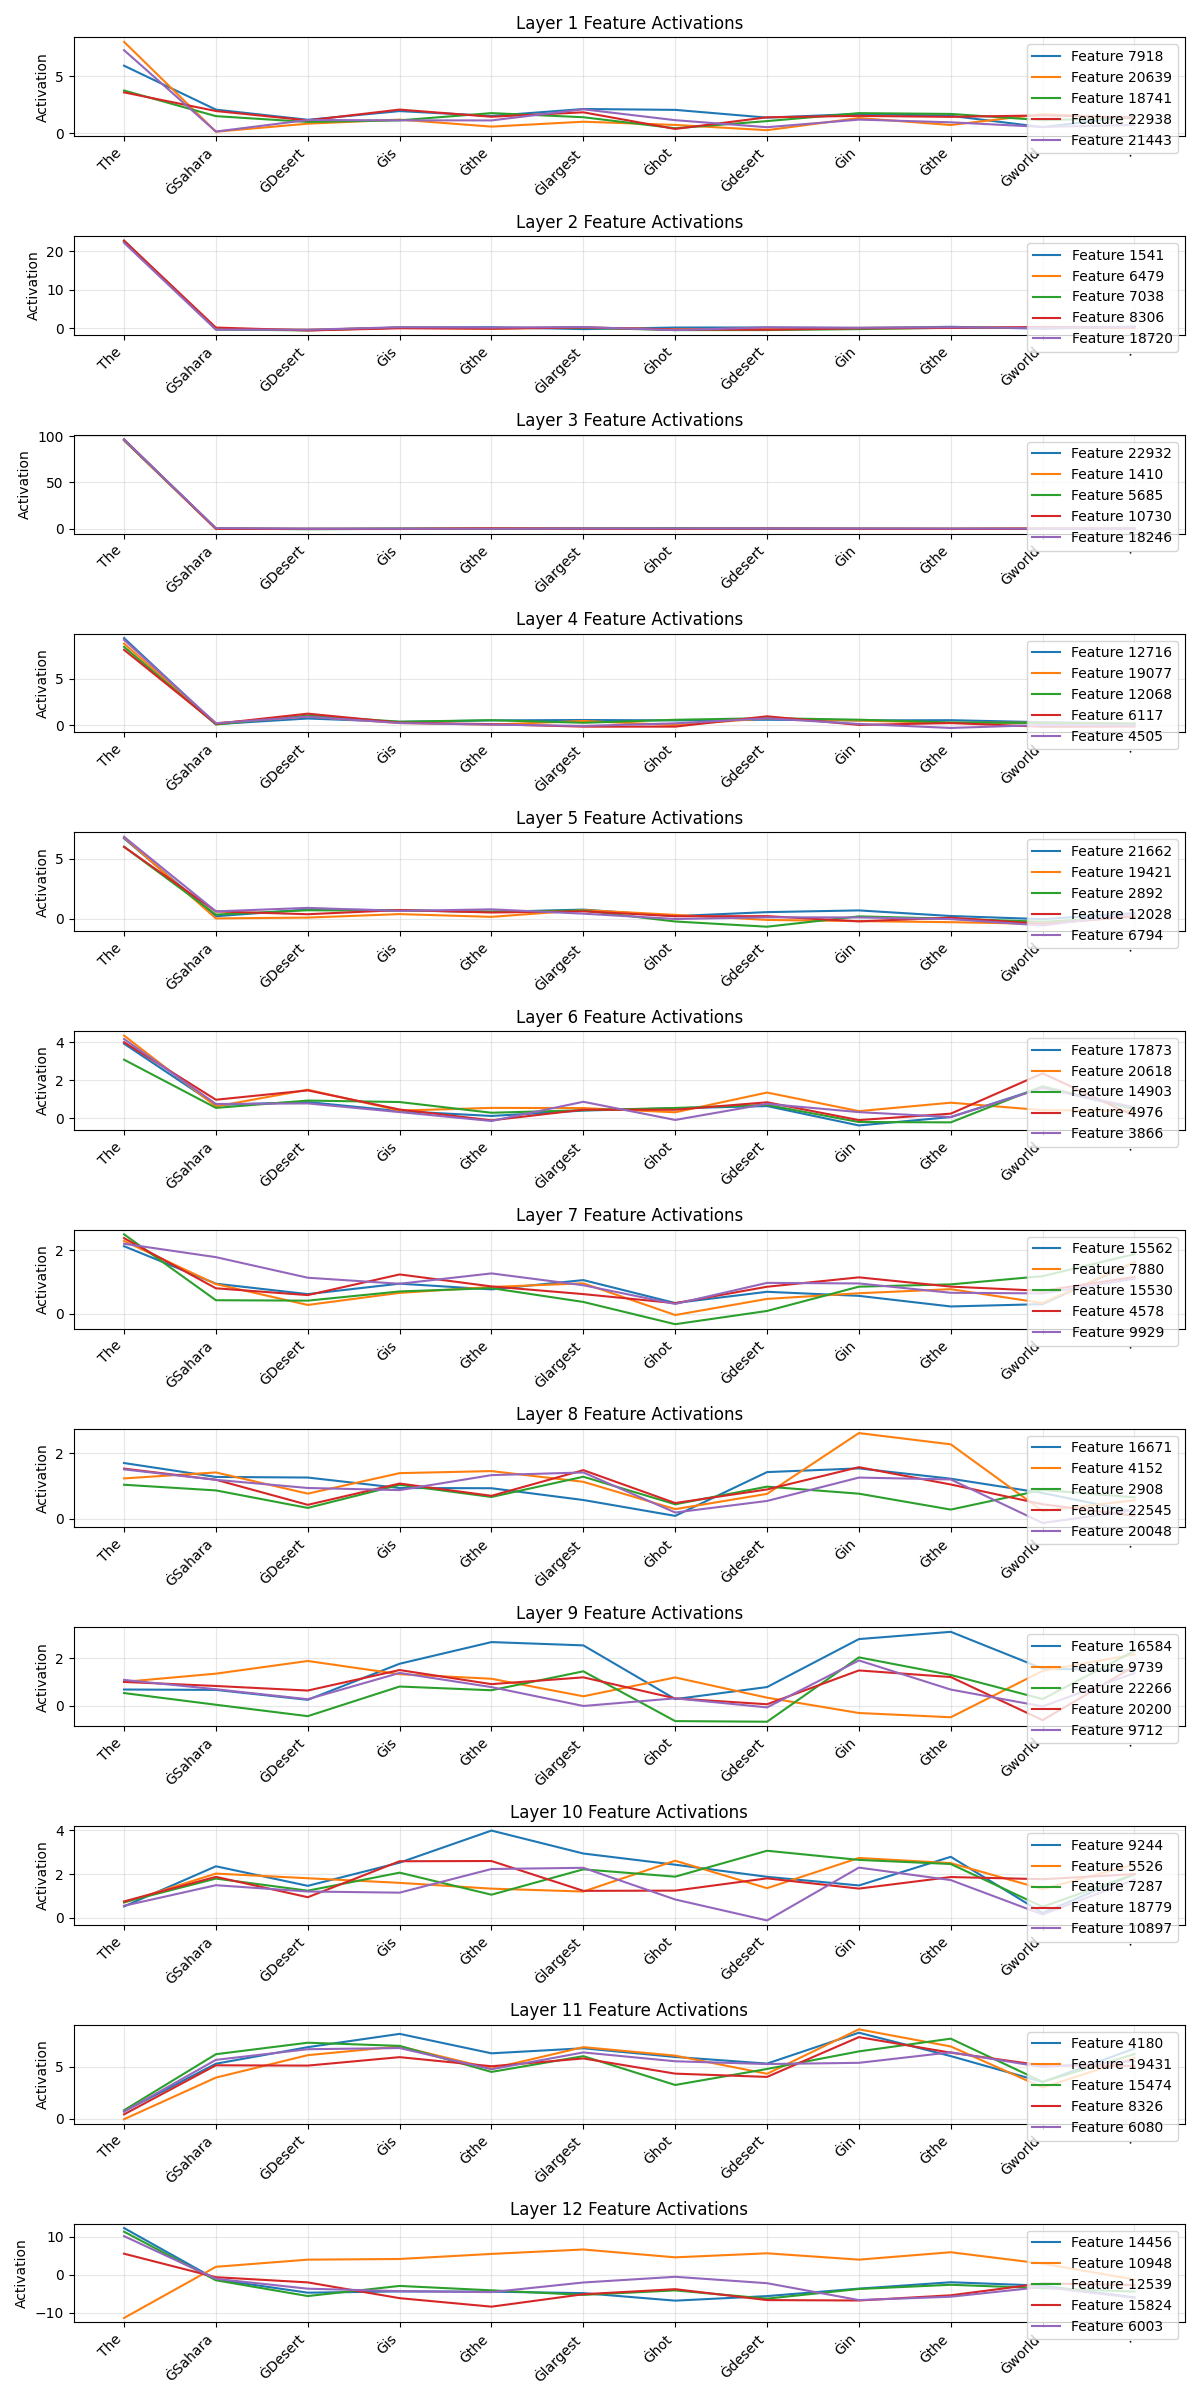
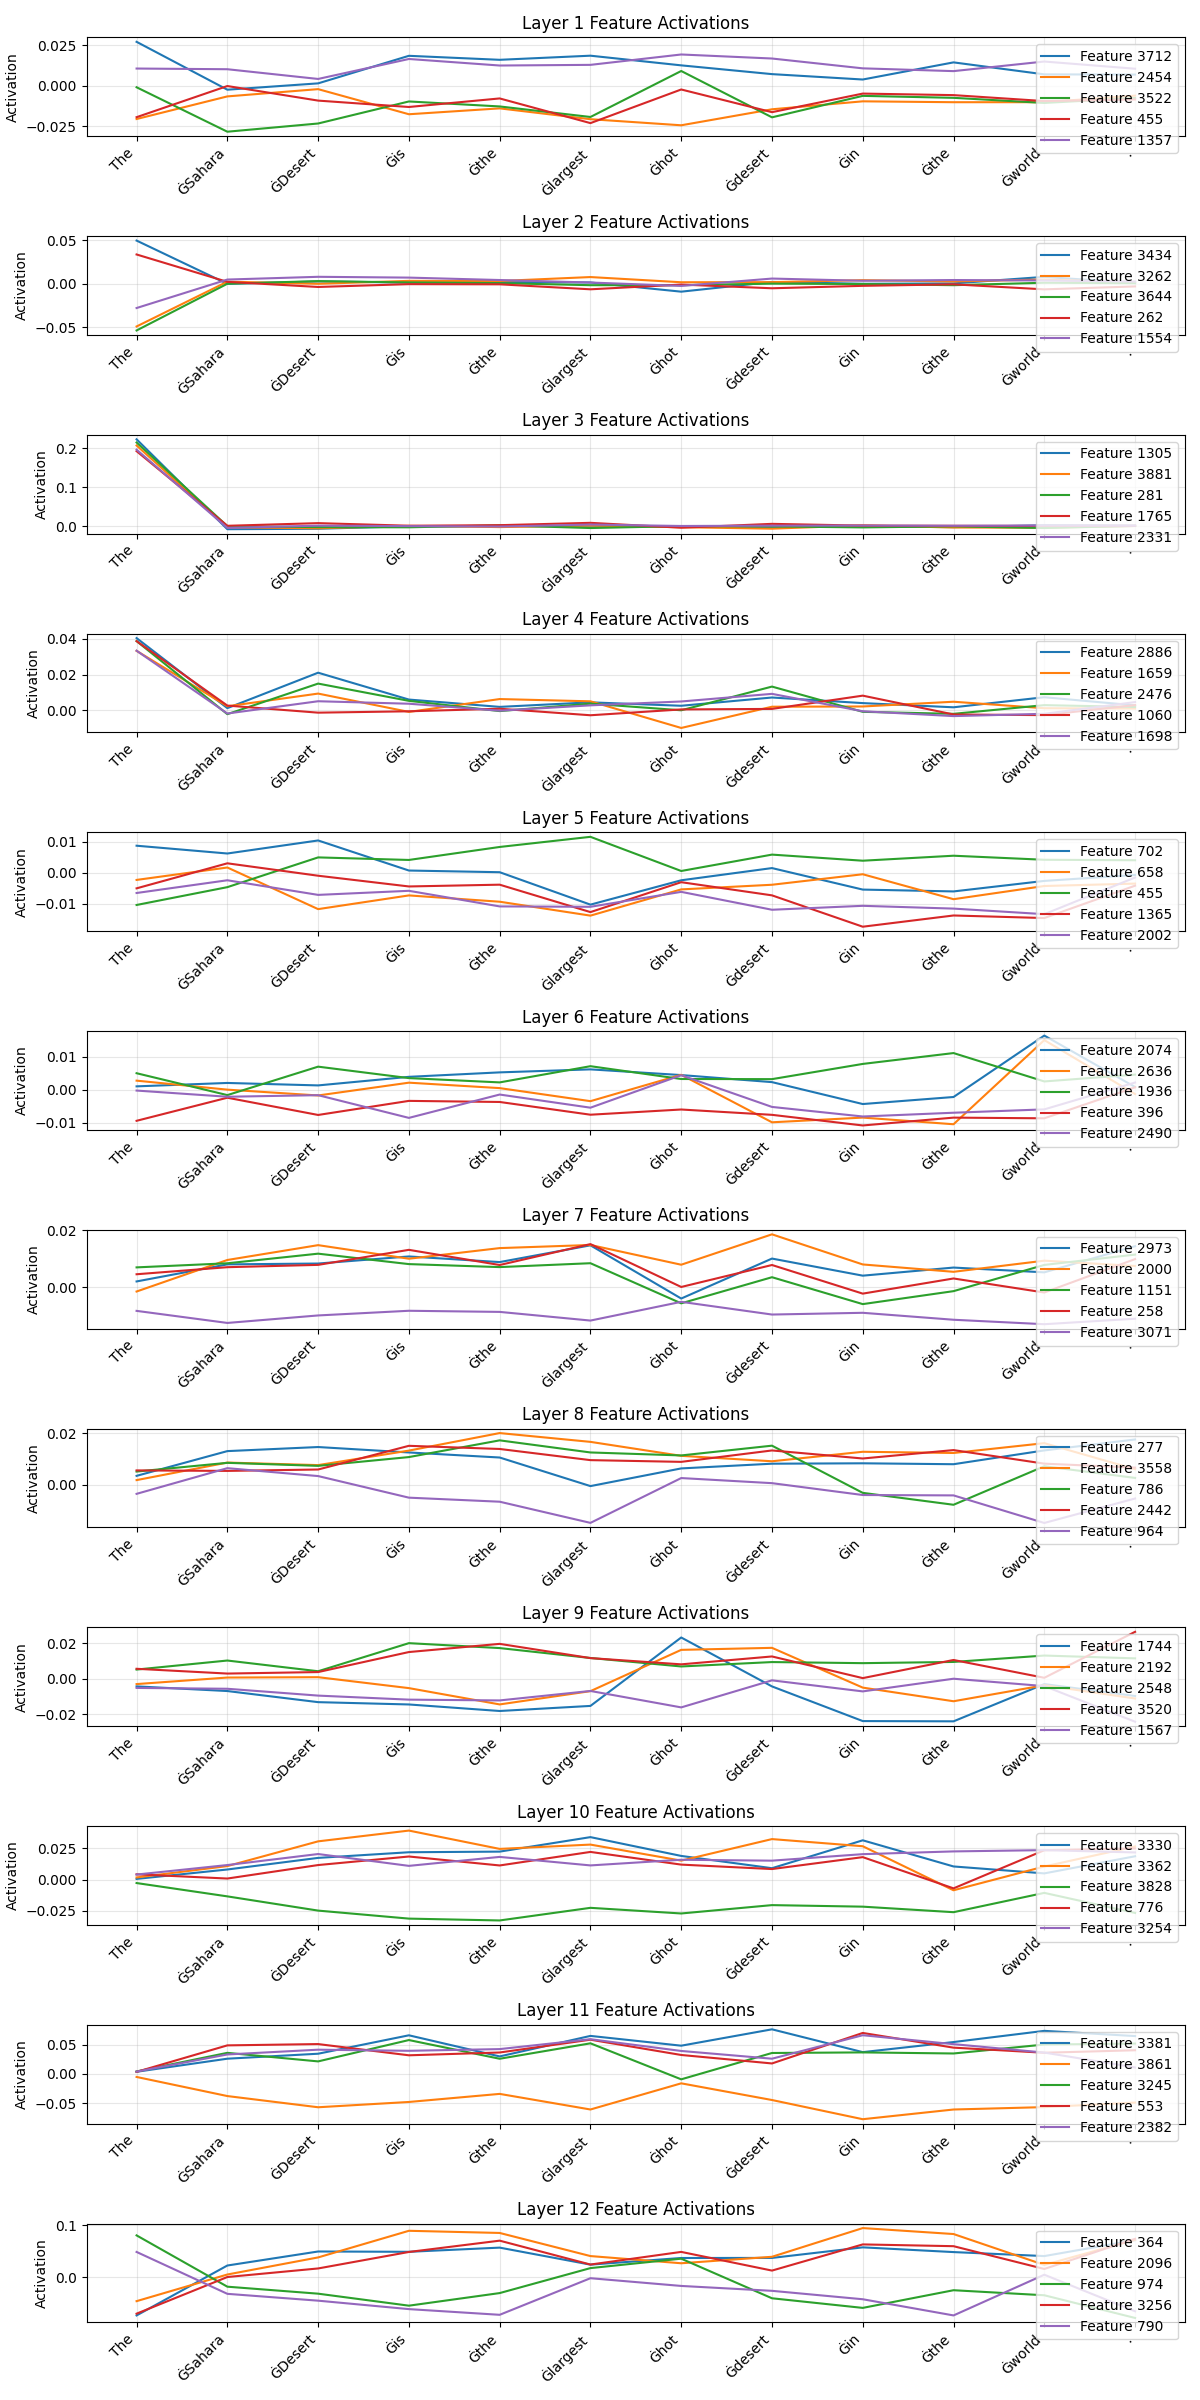
Param and debugging in training

diff --git a/open_cross_layer_transcoder.py b/open_cross_layer_transcoder.py
@@ -19,6 +19,7 @@ from tqdm import tqdm
 from sklearn.decomposition import PCA
 from typing import List, Dict, Tuple, Optional, Union
 
+DEBUG = True
 
 class OpenCrossLayerTranscoder(nn.Module):
     """
@@ -78,6 +79,18 @@ class OpenCrossLayerTranscoder(nn.Module):
         # Feature importance tracking
         self.feature_importance = torch.zeros(self.num_layers, num_features).to(device)
         
+    def print_activations(self, layer_idx, features_relu, num_features):
+        if features_relu.numel() > 0: # Check if tensor is not empty
+            print(f"\n--- Debug Sample: Layer {layer_idx} Feature Activations (features_relu) ---")
+            print(f"Shape of features_relu: {features_relu.shape} (Batch, SeqLen, NumFeatures)")
+            
+            # Print all feature activations for the first token of the first item in the batch
+            if features_relu.shape[0] > 0 and features_relu.shape[1] > 0:
+                print(f"Activations for B[0], T[0] (all {num_features} features):")
+                print(features_relu[0, 0, :])
+            
+            print(f"--- End Debug Sample ---")
+
     def _register_hooks(self):
         """Register forward hooks to capture MLP activations from each layer."""
         def hook_fn(layer_idx):
@@ -183,7 +196,8 @@ class OpenCrossLayerTranscoder(nn.Module):
         metrics = {
             'total_loss': [],
             'reconstruction_loss': [],
-            'sparsity_loss': []
+            'sparsity_loss': [],
+            'l0_metric': []
         }
         
         # Tokenize all texts
@@ -194,6 +208,7 @@ class OpenCrossLayerTranscoder(nn.Module):
             epoch_total_loss = 0
             epoch_recon_loss = 0
             epoch_sparsity_loss = 0
+            epoch_l0_metric = 0
             
             # Process in batches
             num_batches = (len(encoded_texts) + batch_size - 1) // batch_size
@@ -246,12 +261,19 @@ class OpenCrossLayerTranscoder(nn.Module):
                         # Decode back to MLP space
                         reconstructed = self.decoders[layer_idx](features_relu)
                         
+                        if DEBUG == True and batch_idx == 0 and epoch == 0: 
+                            self.print_activations(layer_idx, features_relu, self.num_features)
+
+                        # L0 metric (sparsity)
+                        # l0_metric = torch.count_nonzero(features_relu, dim=2).float()
+                        l0_metric = torch.sum((features_relu > 0.1).float(), dim=2)
+
                         # Reconstruction loss (MSE)
                         recon_loss = F.mse_loss(reconstructed, mlp_acts)
                         reconstruction_loss += recon_loss
                         
                         # Sparsity loss (L1 regularization on features)
-                        l1_loss = 0.1 * torch.mean(torch.abs(features))
+                        l1_loss = 1000 * torch.mean(torch.abs(features))
                         sparsity_loss += l1_loss
                         
                         # Add to total loss
@@ -265,20 +287,25 @@ class OpenCrossLayerTranscoder(nn.Module):
                 epoch_total_loss += total_loss.item()
                 epoch_recon_loss += reconstruction_loss.item()
                 epoch_sparsity_loss += sparsity_loss.item()
+
+                epoch_l0_metric += torch.mean(l0_metric).item()
             
             # Record epoch metrics
             avg_total_loss = epoch_total_loss / num_batches
             avg_recon_loss = epoch_recon_loss / num_batches
             avg_sparsity_loss = epoch_sparsity_loss / num_batches
+            avg_l0_metric = epoch_l0_metric / num_batches
             
             metrics['total_loss'].append(avg_total_loss)
             metrics['reconstruction_loss'].append(avg_recon_loss)
             metrics['sparsity_loss'].append(avg_sparsity_loss)
+            metrics['l0_metric'].append(avg_l0_metric)
             
             print(f"Epoch {epoch+1}/{num_epochs}: "
                   f"Loss = {avg_total_loss:.4f}, "
                   f"Recon = {avg_recon_loss:.4f}, "
-                  f"Sparsity = {avg_sparsity_loss:.4f}")
+                  f"Sparsity = {avg_sparsity_loss:.4f}, "
+                  f"L0 Metric = {avg_l0_metric:.4f}")
         
         return metrics
     

diff --git a/example.py b/example.py
@@ -26,7 +26,7 @@ def main():
     # Initialize the cross-layer transcoder
     transcoder = OpenCrossLayerTranscoder(
         model_name="gpt2",  # GPT-2 Small
-        num_features=24576,   # Number of interpretable features
+        num_features=4000,   # Number of interpretable features
         device=device
     )
     
@@ -272,7 +272,7 @@ def main():
     metrics = transcoder.train_transcoder(
         texts=train_texts,
         batch_size=2,
-        num_epochs=3,
+        num_epochs=20,
         learning_rate=1e-4
     )
     
